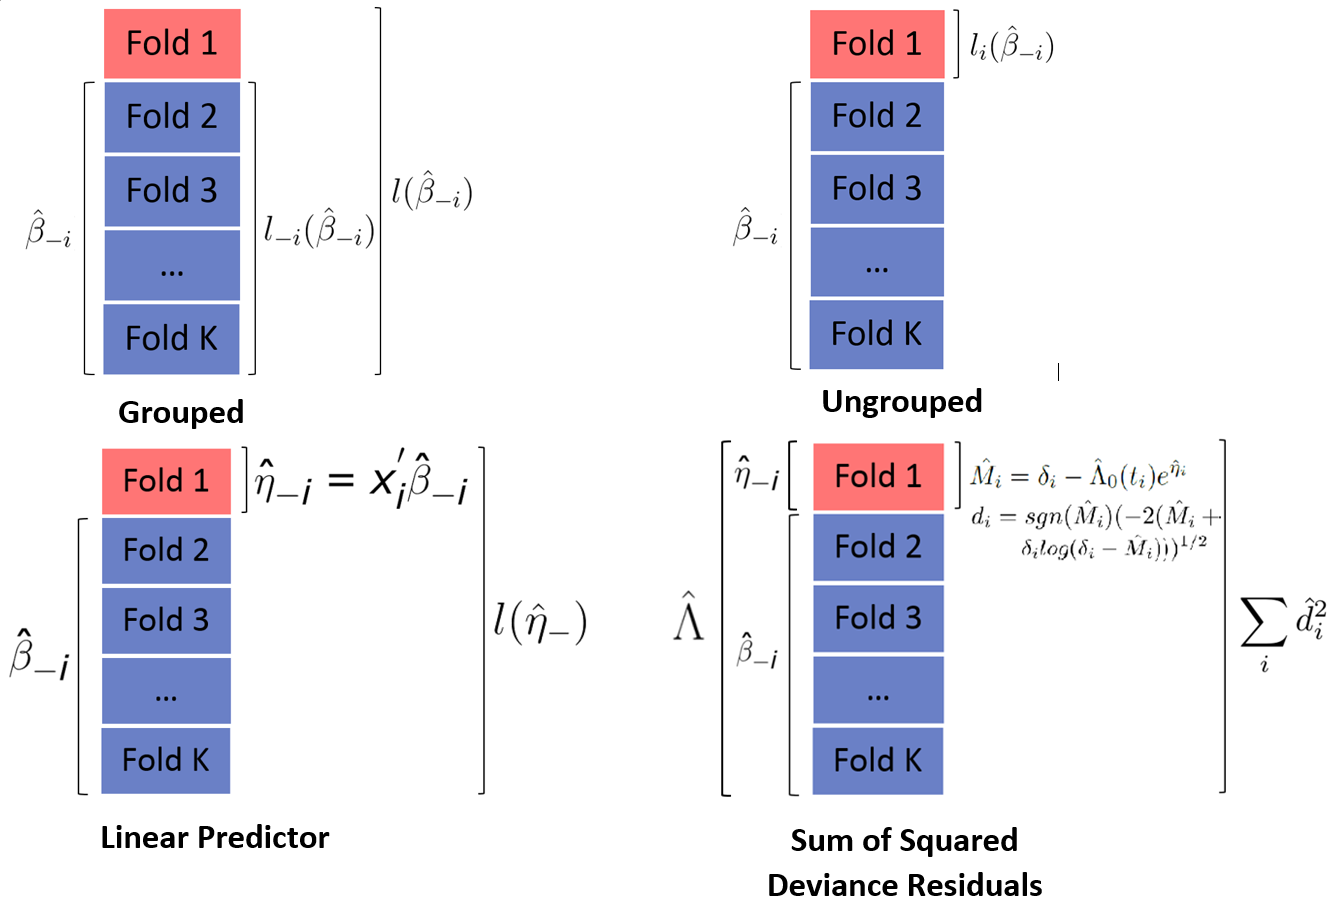
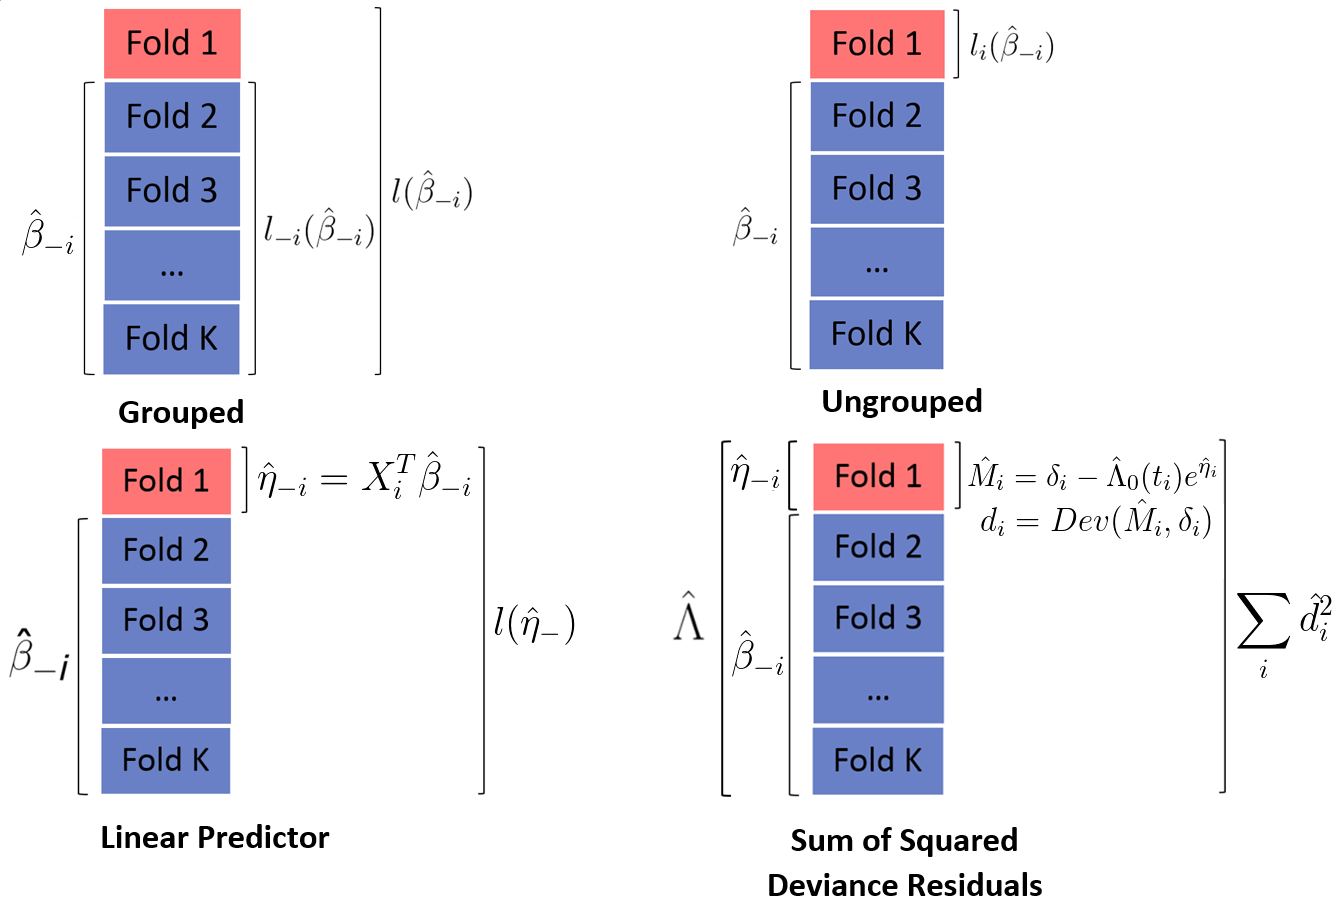
change figure 1,3, add definition of l_{i}

diff --git a/main.tex b/main.tex
@@ -1,7 +1,13 @@
 \section{Introduction}
 Cox propotional hazard regression is one of the most commonly used statistical model for analyzing data with survival outcomes. Despite its popularity, Cox model is limited by its semiparametric nature: it is challenging to evaluate the model's predictive accuracy.
 
-In the Cox model \citep{Cox1975}, the hazard function for an observation i is given by \begin{equation}h_{i}(t) = h_{0}(t) \text{exp}( X_{i}^{T} \beta)\end{equation} where $h_{0}$ is the baseline hazard and $e^{X_{i}^{T} \beta}$ is the relative risk. Suppose there are n observations and m observed failure times, the estimation of the coefficients $\beta$s are obtained by maximizing the partial likelihood \begin{equation}L(\beta) = \prod_{j=1}^{m} \frac{\text{exp} ( X_{j}^{T} \beta)}{\sum_{ k \in R(t_{j})}\text{exp} ( X_{k}^{T} \beta)}\end{equation}, where j indexes the observed failure times and $R(t_{j})$ denotes the set of observations at risk at time $t_{j}$. As a semi-parametric model, Cox regression only gives estimations of the $\beta$ coefficients, without estimating the baseline hazard. Hence the interpretation of the Cox model is only valid in a relative sense.
+Suppose there are n subjects and m observed failure events. Use i for indexing observations, j for indexing events sorted by their failure time. For the ith subject, its covarites will be denoted by $X_{i}$; $\delta_{i}$ denotes whether the event is observed or not for this subject. $t_{j}$ denotes the failure time for the j th event; $t_{i}$ denotes the time observed for ith subject.  In the Cox model \citep{Cox1975}, the hazard function for an observation i is given by 
+\begin{equation}h_{i}(t) = h_{0}(t) \text{exp}( X_{i}^{T} \beta)\end{equation} 
+where $h_{0}$ is the baseline hazard and $e^{X_{i}^{T} \beta}$ is the relative risk. The estimation of the coefficients $\beta$s are obtained by maximizing the partial likelihood. For each individual subject, its contribution to the partial likelihood is 
+\begin{equation} l_{i}(\beta) = \left \{\frac{\text{exp} ( X_{i}^{T} \beta)}{\sum_{ k \in R(t_{i})}\text{exp} ( X_{k}^{T} \beta)}\right \}^{\delta_{i}} \end{equation} \note{introduce notation $l_{i}$} , where $R(t_{i})$ denotes the set of observations at risk at time $t_{i}$.
+
+For all n subjects, the partial likelihood is 
+\begin{equation} L(\beta) =\prod_{i = 1}^{n} l_{i}(\beta) = \prod_{j=1}^{m} \frac{\text{exp} ( X_{j}^{T} \beta)}{\sum_{ k \in R(t_{j})}\text{exp} ( X_{k}^{T} \beta)}\end{equation}. As a semi-parametric model, Cox regression only gives estimations of the $\beta$ coefficients, without estimating the baseline hazard. Hence the interpretation of the Cox model is only valid in a relative sense.
 
 Penalized Cox Regression is an extension of the regular cox regression model. Estimates of the $\beta$ coefficients are obtained by minimizing the objective function \begin{equation}  Q(\beta |X, y) = - \frac{1}{n}  \sum_{j=1}^{m} \text{log} \left \{\frac{\text{exp} ( X_{j}^{T} \beta)}{\sum_{ k \in R(t_{j})}\text{exp} ( X_{k}^{T} \beta)}) \right \} + P_{\lambda}(\beta). \end{equation} \citep{Simon2011}. The first part of the objective function is based on the partial likelihood. The second part is a penalty term that depends on some regularization parameters. In this paper, only the LASSO penalty $P_{\lambda}(\beta) = \lambda (\sum_{j} |\beta_{j}|)$ was considered. The LASSO cox regression can be used to build prediction models for survival outcome based on high dimensional data, where the number of covariates p $\gg$ n. An example of its application would be to make predictions of cancer patients' the overall survival time with their certain gene expressions.
 
@@ -65,6 +71,8 @@ As an alternative, the baseline hazard can also be estimated only based on the t
 		%\includegraphics[height= 4cm ]{./figures/02_2.png}
     \caption{Illustration of K-fold Cross Validation Methods for Cox Regression}
 \end{figure}	
+
+\note{tranpose sign in figure 1 is corrected}
 
 \section{Simulation Studies}
 

diff --git a/cross-validation.tex b/cross-validation.tex
@@ -60,9 +60,7 @@
 \maketitle
 
 \section*{Abstract}
-Cross validation is commonly used for selecting tuning parameters in penalized regression, but little research has been conducted to study the performance of cross validation in penalized Cox regression. Due to its partial likelihood construction, carrying out cross validation for Cox models is not straightforward, and there are several ways one could imagine applying it. Here, we propose two new cross-validation methods for Cox regression and compare them to approaches that have been proposed elsewhere.
-\note{as well as to information criteria such as AIC and BIC -- I DON'T THINK THIS IS CURRENTLY IN THE PAPER ANYMORE?}
-Our simulation studies show that in general, all cross-validation approaches tend to be conservative (i.e., select smaller models than the optimal choice of tuning parameters) for penalized Cox regression models. However, our proposed approach of cross-validating the linear predictors seems to offer an attractive balance of performance and numerical stability. We illustrate these advantages using simulated data as well as real data from two genome-wide studies of survival in cancer patients.
+Cross validation is commonly used for selecting tuning parameters in penalized regression, but little research has been conducted to study the performance of cross validation in penalized Cox regression. Due to its partial likelihood construction, carrying out cross validation for Cox models is not straightforward, and there are several ways one could imagine applying it. Here, we propose two new cross-validation methods for Cox regression and compare them to approaches that have been proposed elsewhere. Our simulation studies show that in general, all cross-validation approaches tend to be conservative (i.e., select smaller models than the optimal choice of tuning parameters) for penalized Cox regression models. However, our proposed approach of cross-validating the linear predictors seems to offer an attractive balance of performance and numerical stability. We illustrate these advantages using simulated data as well as real data from two genome-wide studies of survival in cancer patients.
 \input{main}
 
 \bibliographystyle{abbrvnat}
